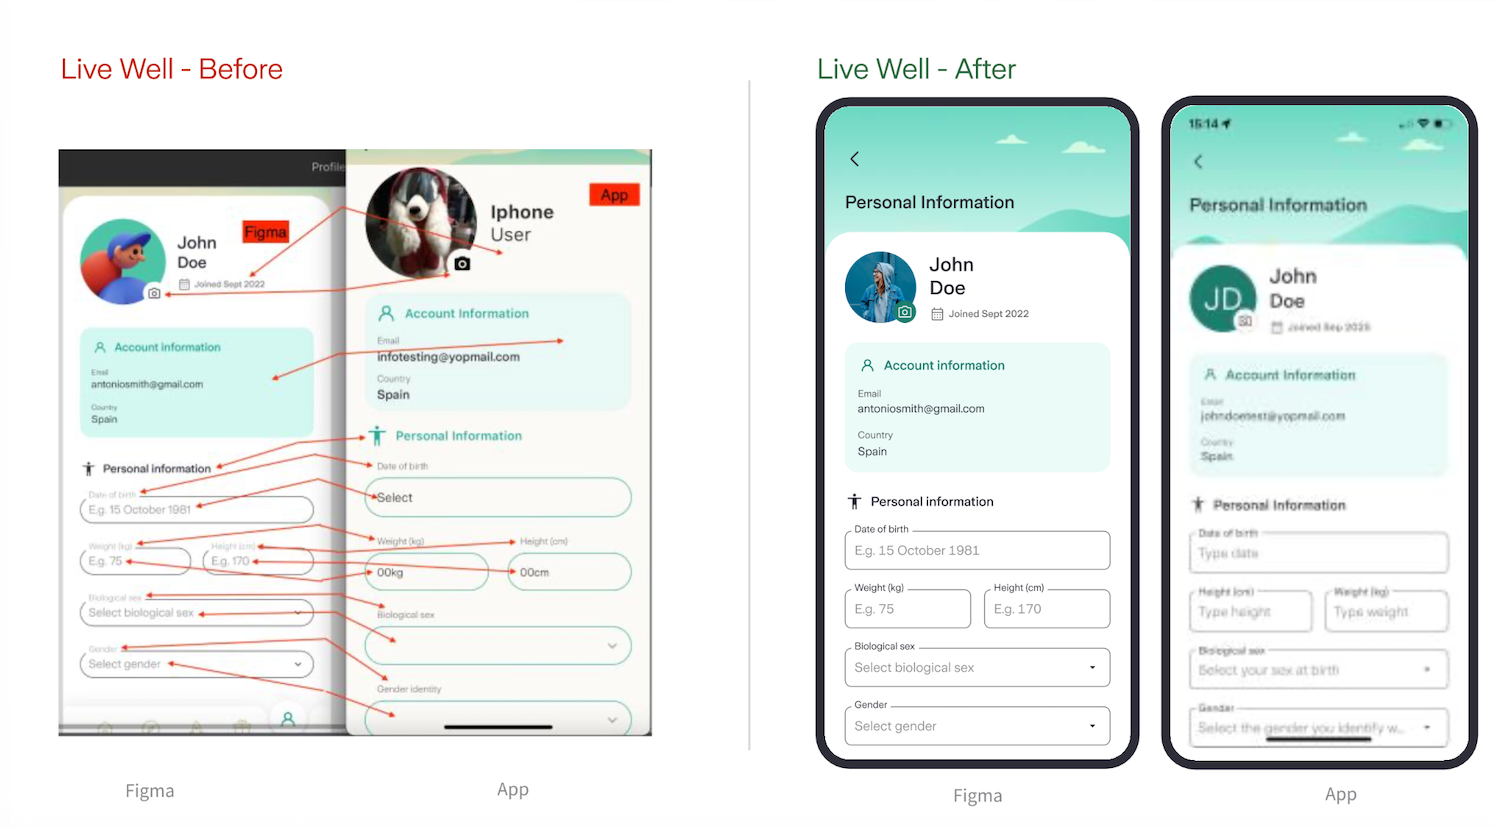
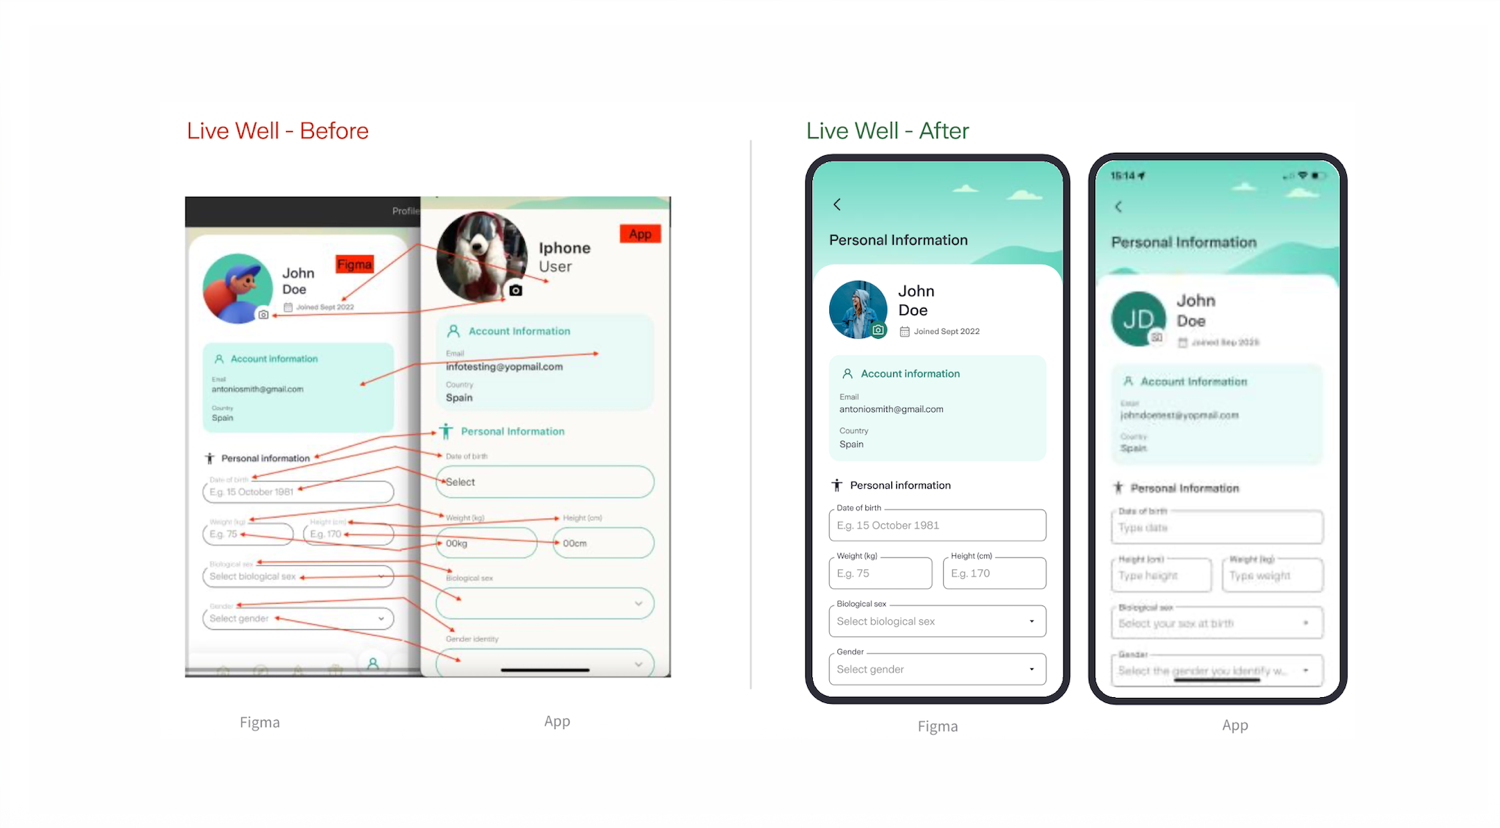
update text and images

diff --git a/index-1.html b/index-1.html
@@ -3,8 +3,8 @@
 <head>
   <meta charset="utf-8" />
   <meta name="viewport" content="width=device-width, initial-scale=1" />
-  <meta name="description" content="Ann-Sofi Lantz, Senior Flutter Engineer specialising in Flutter and Design Systems." />
-  <title>Ann-Sofi Lantz | Senior Flutter Engineer · Design Systems</title>
+  <meta name="description" content="Ann-Sofi Lantz — Senior Flutter Developer focused on Flutter and Design Systems." />
+  <title>Ann-Sofi Lantz | Flutter Developer · Design Systems</title>
   <link rel="preconnect" href="https://fonts.googleapis.com">
   <link rel="preconnect" href="https://fonts.gstatic.com" crossorigin>
   <link href="https://fonts.googleapis.com/css2?family=DM+Sans:wght@400;500;600&family=Manrope:wght@400;500;600&display=swap" rel="stylesheet">
@@ -23,20 +23,20 @@
 
   <main id="top">
     <section class="hero section-shell">
-      <p class="eyebrow reveal">Senior Flutter Engineer · Design Systems</p>
+      <p class="eyebrow reveal">Senior Flutter Developer · Design Systems</p>
       <h1 class="display reveal">I build digital products where <span>design and engineering</span> meet.</h1>
       <div class="hero-bottom reveal">
-        <p class="hero-copy">I’m a Flutter developer focused on building products and Design Systems that are easy to maintain, reuse and evolve. I enjoy working closely with designers to turn Figma designs into accessible components and real product experiences.</p>
+        <p class="hero-copy">I’m a Flutter developer focused on building products and Design Systems that are easy to scale, maintain and use. I enjoy working closely with designers to turn Figma designs into accessible, reusable components and real product experiences.</p>
         <div class="hero-meta">
           <span>Barcelona, Spain</span>
           <span>Flutter · Dart · Design Systems</span>
-          <span>Mobile · Web · Desktop</span>
+          <span>Mobile · Web</span>
         </div>
       </div>
     </section>
 
-    <section class="hero-gallery" aria-label="Selected product work">
-      <figure class="hero-shot hero-shot-a"><img src="assets/livewell-2.jpeg" alt="LiveWell app shown on two phones" /></figure>
+    <section class="section-shell hero-gallery" aria-label="Selected product work">
+      <figure class="hero-shot hero-shot-a"><img src="assets/livewell-2.jpeg" alt="LiveWell product shown on two phones" /></figure>
       <figure class="hero-shot hero-shot-b"><img src="assets/foundations.jpeg" alt="Koa Foundations app in use on a phone" /></figure>
       <figure class="hero-shot hero-shot-c"><img src="assets/habits-1.png" alt="Koa Habits app daily overview" /></figure>
     </section>
@@ -76,21 +76,21 @@
       <div class="ds-intro">
         <p class="eyebrow">Specialist area</p>
         <h2>Design Systems</h2>
-        <p class="ds-lede">A recurring focus throughout my work has been turning design decisions into scalable, reusable frontend systems. I have led frontend Design System development, built Flutter component libraries and reference applications, and worked closely with designers in Figma to keep design and code aligned.</p>
+        <p class="ds-lede">A recurring part of my work has been turning design decisions into reusable systems. I’ve built and maintained Flutter component libraries, worked closely with designers in Figma and helped keep design and code aligned as products evolve.</p>
       </div>
 
       <div class="ds-pillars">
-        <div class="ds-pillar"><span>01</span><h3>Design + code as one system</h3><p>I work closely with designers from the component definition stage, translating Figma specifications into reusable Flutter APIs. Naming, component structure and tokens are intentionally aligned across Figma and code so designers and developers share the same language.</p></div>
-        <div class="ds-pillar"><span>02</span><h3>Reusable Flutter libraries</h3><p>I have led frontend development of Design System libraries covering foundations, themes and reusable components across multiple applications. I focus on composition, predictable behaviour and APIs that are clear for product developers to understand and use correctly.</p></div>
-        <div class="ds-pillar"><span>03</span><h3>Reference app + documentation</h3><p>The library is supported by a reference application where teams can explore components, variants and states in one place. I document components and APIs carefully so the system is useful beyond the team that originally built it.</p></div>
-        <div class="ds-pillar"><span>04</span><h3>Quality built into the system</h3><p>I implemented golden testing around component demos to automatically detect visual regressions. Accessibility, interaction states, dark mode and cross-platform behaviour are treated as part of the component contract rather than product-by-product fixes.</p></div>
+        <div class="ds-pillar"><span>01</span><h3>Design + code as one system</h3><p>I work closely with designers from the start, turning Figma components and specifications into reusable Flutter components. I care about keeping naming, structure and behaviour consistent between design and code.</p></div>
+        <div class="ds-pillar"><span>02</span><h3>Reusable Flutter libraries</h3><p>I’ve built and maintained Flutter Design System libraries covering foundations, themes and reusable components. The goal is to make components easy for product developers to understand, reuse and extend.</p></div>
+        <div class="ds-pillar"><span>03</span><h3>Reference app + documentation</h3><p>I use example and reference apps to make components easy to explore in their different states and variants. Clear documentation helps product teams use the system without having to know how it was built.</p></div>
+        <div class="ds-pillar"><span>04</span><h3>Accessibility + quality</h3><p>Accessibility is considered when components are designed and implemented, not added as a separate step later. I’ve also used golden tests to catch visual regressions and treated states, theming and platform behaviour as part of the component itself.</p></div>
       </div>
 
       <div class="ds-demo">
         <div class="ds-demo-copy">
           <p class="section-number">How I work</p>
           <h3>From Figma specification to tested component.</h3>
-          <p>Design tokens bridge visual decisions and implementation, including colour, typography, spacing, sizing and radius. Components are then built once, documented, demonstrated in the reference app and protected with automated visual tests before adoption in products.</p>
+          <p>Design tokens connect visual decisions to implementation. Components are then built, documented and demonstrated in the reference app, with automated visual tests helping catch regressions before changes reach products.</p>
           <div class="ds-flow" aria-label="Design System workflow"><span>Figma</span><b>→</b><span>Tokens</span><b>→</b><span>Flutter API</span><b>→</b><span>Reference app</span><b>→</b><span>Golden tests</span></div>
         </div>
         <div class="ds-demo-media">
@@ -118,17 +118,17 @@
         <div class="case-title-wrap">
           <p class="eyebrow">Case study 01</p>
           <h2>LiveWell by Zurich</h2>
-          <p class="case-lede">Building a Design System from the ground up while contributing to a large health and wellbeing product.</p>
+          <p class="case-lede">Building a Design System from the ground up while contributing to a health and wellbeing product.</p>
         </div>
         <div class="case-facts">
           <div><span>Role</span><strong>Senior Flutter Developer</strong></div>
-          <div><span>Focus</span><strong>Design System, product development</strong></div>
-          <div><span>Technology</span><strong>Flutter, Dart, Riverpod</strong></div>
-          <div><span>Platform</span><strong>Android, iOS & web</strong></div>
+          <div><span>Focus</span><strong>Design Systems, product development</strong></div>
+          <div><span>Platform</span><strong>Flutter, mobile and web</strong></div>
         </div>
       </section>
+   <section class="full-bleed media-panel blue-panel"><img src="assets/livewell-2.jpeg" alt="LiveWell visual identity shown across two phone mockups" /></section>
 
-      <section class="full-bleed media-panel blue-panel"><img src="assets/livewell-2.jpeg" alt="LiveWell visual identity shown across two phone mockups" /></section>
+      <section class="full-bleed media-panel livewell-hero-media"><img src="assets/livewell-before-after.png" alt="LiveWell app screens showing the product before and after the Design System work" /></section>
 
       <section class="case-grid section-shell">
         <aside class="case-nav" aria-label="LiveWell case study sections">
@@ -141,26 +141,24 @@
           <section id="livewell-context" class="case-section">
             <span class="section-number">01</span>
             <h3>Creating a shared foundation</h3>
-            <p>I built and evolved the LiveWell Design System from the ground up, working closely with design and product teams to establish a consistent visual and technical foundation. The work combined system thinking with hands-on product development, so the Design System had to work in real product flows rather than as an isolated component library.</p>
+            <p>I built and evolved the LiveWell Design System from the ground up, working closely with design and product to establish a shared visual and technical foundation. The system had to work in real product flows, not just as an isolated component library.</p>
           </section>
 
           <section id="livewell-role" class="case-section">
             <span class="section-number">02</span>
-            <h3>From foundations to product adoption</h3>
+            <h3>From foundations to product</h3>
             <div class="feature-list">
               <div><span>Foundations</span><p>Defined color, typography, spacing, sizing, radius, icons and dark mode as reusable foundations.</p></div>
               <div><span>Components</span><p>Built reusable Flutter components and tokens with well-structured APIs, clear conventions and maintainability in mind.</p></div>
               <div><span>Accessibility</span><p>Incorporated accessibility into components and design standards instead of treating it as a later layer.</p></div>
               <div><span>Adoption</span><p>Worked with product teams to replace legacy components and gradually move the app towards the new system.</p></div>
-              <div><span>Product work</span><p>Contributed directly to features while solving UX issues, technical debt and cross-squad implementation challenges.</p></div>
+              <div><span>Product work</span><p>Contributed directly to product features, including health and activity tracking, while also working through UX issues and technical debt.</p></div>
             </div>
           </section>
         </div>
       </section>
 
-      <section class="full-bleed media-panel blue-panel"><img src="assets/livewell-before-after-s.png" alt="LiveWell app screens showing the product before and after the Design System work" /></section>
-
- 
+    
 
       <section id="livewell-system" class="editorial-break section-shell">
         <div class="big-quote">Design System = design + code</div>
@@ -170,7 +168,19 @@
         </div>
       </section>
 
-                <section id="livewell-system" class="editorial-break section-shell">
+      <section class="livewell-product section-shell" aria-labelledby="livewell-product-title">
+        
+   
+      
+      </section>
+    <section class="livewell-ds-video section-shell" aria-label="LiveWell Design System demo">
+  
+        <video autoplay muted loop playsinline controls poster="assets/livewell-before-after.png">
+          <source src="assets/livewell-ds.mp4" type="video/mp4" />
+          <source src="assets/livewell-ds.mov" type="video/quicktime" />
+        </video>
+      </section>
+          <section id="livewell-system" class="editorial-break section-shell">
         <div class="big-quote">Product work</div>
         <div class="two-col-copy">
           <h3>From shared components to a working product experience.</h3>
@@ -180,16 +190,8 @@
         </div>
       </section>
 
-
-      <section class="livewell-ds-video section-shell" aria-label="LiveWell Design System demo">
-     
-        <video autoplay muted loop playsinline controls poster="assets/livewell-before-after.png">
-          <source src="assets/livewell-ds.mp4" type="video/mp4" />
-          <source src="assets/livewell-ds.mov" type="video/quicktime" />
-        </video>
-      </section>
-
-      <section id="livewell-outcome" class="case-outcome section-shell">
+  
+        <section id="livewell-outcome" class="case-outcome section-shell">
         <p class="eyebrow">04 · Outcome</p>
         <h3>A more consistent, accessible and scalable product experience.</h3>
         <p>The Design System made it easier for teams to build and maintain new features while moving the product toward higher reuse and consistency. The next step was to think beyond a single application and explore how the same foundations could support a wider ecosystem.</p>
@@ -217,8 +219,8 @@
           <h3>From product to ecosystem</h3>
         </div>
         <div>
-          <p>After LiveWell, I worked on the next step of the Design System approach within Zurich Global Ventures. The goal was to create a shared foundation that could be reused across multiple apps while still allowing each product to maintain its own identity.</p>
-          <p>The challenge shifted from creating consistency within one product to exploring how a Design System could support multiple products, teams and visual identities without losing the benefits of reuse.</p>
+          <p>After LiveWell, I worked on the next step of the Design System approach within Zurich Global Ventures. The goal was to create a shared foundation that could be reused across multiple apps while still allowing each product to keep its own identity.</p>
+          <p>The focus shifted from consistency within one app to exploring how a shared system could support multiple products and teams without flattening their individual identities.</p>
         </div>
       </section>
 
@@ -245,12 +247,11 @@
         <div class="case-title-wrap">
           <p class="eyebrow">Case study 03</p>
           <h2>Koa Health</h2>
-          <p class="case-lede">A Design System used across several digital health products.</p>
+          <p class="case-lede">One Design System supporting multiple digital health products, teams and clinical contexts.</p>
         </div>
         <div class="case-facts">
-          <div><span>Role</span><strong>Flutter Developer · Design System</strong></div>
+          <div><span>Role</span><strong>Flutter Developer · Design Systems</strong></div>
           <div><span>Products</span><strong>Foundations, Mindset, Habits</strong></div>
-          <div><span>Technology</span><strong>Flutter, Dart, Provider, Riverpod</strong></div>
           <div><span>Context</span><strong>Digital mental health</strong></div>
         </div>
       </section>
@@ -263,8 +264,8 @@
       <section class="split-story section-shell">
         <div><p class="section-number">01</p><h3>One system, different products</h3></div>
         <div>
-          <p>At Koa Health, I worked with a Design System supporting a growing portfolio of digital health products, each with different audiences, purposes and clinical contexts.</p>
-          <p>The challenge was not simply creating consistency within one product. It was building a flexible and accessible foundation that could scale across multiple products while maintaining a coherent Koa Health experience.</p>
+          <p>At Koa Health, I worked primarily on the Design System used across their digital health products. I also contributed to several products, including Foundations, Mindset and the research app Habits.</p>
+          <p>The challenge was not simply creating consistency within one product. It was building a flexible and accessible foundation that could scale across multiple products while maintaining a coherent Koa Health experience. Accessibility and flexibility were important parts of that work.</p>
         </div>
       </section>
 
@@ -296,7 +297,7 @@
       <section class="principles section-shell koa-principles">
         <div class="principle"><span>01</span><h4>Accessibility</h4><p>Make experiences usable and inclusive for people with different needs and abilities.</p></div>
         <div class="principle"><span>02</span><h4>Consistency</h4><p>Create a recognisable experience across products without blocking product-specific needs.</p></div>
-        <div class="principle"><span>03</span><h4>Flexibility</h4><p>Support different product needs and user journeys.</p></div>
+        <div class="principle"><span>03</span><h4>Flexibility</h4><p>Support very different product needs, user journeys and clinical contexts.</p></div>
         <div class="principle"><span>04</span><h4>Scalability</h4><p>Allow new products and features to build on the same reliable foundation.</p></div>
       </section>
 
@@ -313,7 +314,7 @@
         <div class="case-facts">
           <div><span>Role</span><strong>JavaScript / Flutter Developer</strong></div>
           <div><span>Product</span><strong>Foodini 3D food printer</strong></div>
-          <div><span>Technology</span><strong>React, JavaScript, Flutter, Dart, Provider</strong></div>
+          <div><span>Technology</span><strong>React, JavaScript, Flutter</strong></div>
         </div>
       </section>
 
@@ -342,12 +343,12 @@
     <section id="about" class="about section-shell">
       <div class="about-heading">
         <p class="eyebrow">About</p>
-        <h2>Flutter developer with a strong Design Systems focus.</h2>
+        <h2>Flutter developer with a strong focus on product quality and Design System focus.</h2>
       </div>
       <div class="about-copy">
-        <p>Flutter has been my main technology for the past six years. My specialty sits at the intersection of design and engineering, translating design decisions into maintainable code through reusable component APIs, clear documentation and close collaboration with designers.</p>
-        <p>I care deeply about maintainability and quality. My experience includes application architecture, Riverpod, CI workflows, automated testing including golden tests, release processes and hands-on product development across mobile and web applications.</p>
-        <p>I am based in Barcelona and experienced in remote, distributed and async-friendly environments.</p>
+        <p>Over the past six years, I have worked exclusively with Flutter. My specialty sits at the intersection of design and engineering, translating design decisions into scalable code through reusable component APIs, clear documentation and close collaboration with designers.</p>
+        <p>My experience also includes application architecture, Riverpod, CI workflows, automated testing including golden tests, release processes and hands-on development across mobile and web.</p>
+        <p>I’m based in Barcelona and well experienced in remote, distributed and async-friendly environments.</p>
       </div>
     </section>
 
@@ -359,8 +360,6 @@
       <div class="experience-row"><span>2019 - 2020</span><strong>JavaScript / Flutter Developer</strong><em>Natural Machines</em></div>
       <div class="experience-row"><span>Earlier</span><strong>Full-stack development, founder, design</strong><em>Spain and Sweden</em></div>
     </section>
-
-    
 
     <section class="earlier-work section-shell">
       <div class="earlier-work-heading">
@@ -384,24 +383,9 @@
       </div>
     </section>
 
-    <section id="recommendations" class="recommendations section-shell">
-      <div class="recommendations-heading">
-        <p class="eyebrow">Recommendations</p>
-        <h2>What colleagues say.</h2>
-      </div>
-      <div class="recommendation-card">
-        <div class="quote-mark">“</div>
-        <blockquote>Her work has significantly reduced build time for the team while improving consistency and reliability across the product.</blockquote>
-   
-        <a class="recommendation-link" href="https://www.linkedin.com/in/ann-sofi-lantz/details/recommendations/" target="_blank" rel="noreferrer">View recommendations on LinkedIn ↗</a>
-      </div>
-    </section>
-
-    
-
     <section class="contact section-shell">
       <p class="eyebrow">Get in touch</p>
-      <h2>Interested in building a thoughtful product together?</h2>
+      <h2>Looking for a frontend developer?</h2>
       <div class="contact-actions">
         <a href="https://linkedin.com/in/ann-sofi-lantz" target="_blank" rel="noreferrer">LinkedIn ↗</a>
         <a href="https://github.com/ansolantz" target="_blank" rel="noreferrer">GitHub ↗</a>
@@ -409,7 +393,7 @@
     </section>
   </main>
 
-  <footer class="site-footer section-shell"><span>Ann-Sofi Lantz</span><span>Senior Flutter Engineer · Barcelona</span><a href="#top">Back to top ↑</a></footer>
+  <footer class="site-footer section-shell"><span>Ann-Sofi Lantz</span><span>Flutter Developer · Design Systems · Barcelona</span><a href="#top">Back to top ↑</a></footer>
   <script src="script.js"></script>
 </body>
 </html>

diff --git a/styles.css b/styles.css
@@ -45,6 +45,10 @@ a { color: inherit; text-decoration: none; }
 .contact-link { padding-bottom: 2px; border-bottom: 1px solid currentColor; }
 
 .section-shell { max-width: var(--max); margin: 0 auto; padding-left: var(--pad); padding-right: var(--pad); }
+
+.section-shell h2 {  color: var(--accent); }
+
+   
 .hero { min-height: 78vh; display: flex; flex-direction: column; justify-content: space-between; padding-top: clamp(90px, 12vw, 165px); padding-bottom: 72px; }
 .eyebrow { margin: 0 0 24px; font-size: 12px; font-weight: 600; letter-spacing: .12em; text-transform: uppercase; }
 .display { max-width: 1050px; margin: 0; font: 500 clamp(44px, 6.1vw, 88px)/1.02 "Manrope", sans-serif; letter-spacing: -.055em; }
@@ -111,7 +115,7 @@ a { color: inherit; text-decoration: none; }
 .one-up img { aspect-ratio: auto; }
 
 .editorial-break { display: grid; grid-template-columns: 1.05fr .95fr; gap: 96px; padding-top: 130px; padding-bottom: 130px; border-top: 1px solid var(--line); }
-.big-quote { font: 500 clamp(48px, 6vw, 84px)/1.03 "Manrope", sans-serif; letter-spacing: -.05em; color: var(--accent); }
+.big-quote { font: 500 clamp(48px, 6vw, 72px)/1.03 "Manrope", sans-serif; letter-spacing: -.05em; color: var(--accent); }
 .two-col-copy h3 { margin: 0 0 24px; font: 500 32px/1.2 "Manrope", sans-serif; letter-spacing: -.03em; }
 .two-col-copy p { margin: 0; font-size: 18px; line-height: 1.65; color: #514f4a; }
 
@@ -162,7 +166,7 @@ a { color: inherit; text-decoration: none; }
 .experience-row strong { font-weight: 500; }
 
 .contact { padding-top: 140px; padding-bottom: 140px; border-top: 1px solid var(--line); }
-.contact h2 { max-width: 980px; font-size: 38px;}
+.contact h2 { max-width: 980px; font-size: 44px;}
 .contact-actions { display: flex; flex-wrap: wrap; gap: 28px 42px; margin-top: 58px; }
 .contact-actions a { padding-bottom: 3px; border-bottom: 1px solid currentColor; }
 .site-footer { display: grid; grid-template-columns: 1fr 1fr auto; gap: 20px; padding-top: 30px; padding-bottom: 30px; border-top: 1px solid var(--line); font-size: 12px; color: var(--muted); }
@@ -422,3 +426,17 @@ html, body { max-width: 100%; overflow-x: hidden; }
   .livewell-ds-video { padding-bottom: 60px; }
   .koa-collage-single .koa-main img { max-height: none; }
 }
+
+/* Recommendations */
+.recommendations{padding-top:120px;padding-bottom:120px;border-top:1px solid var(--line)}
+.recommendations-heading{display:grid;grid-template-columns:.75fr 1.25fr;gap:70px;margin-bottom:58px}
+.recommendations-heading h2{margin:0;font:500 clamp(42px,5.4vw,76px)/1 "Manrope",sans-serif;letter-spacing:-.055em}
+.recommendation-card{max-width:980px;margin-left:auto;padding:38px 0 0;border-top:1px solid var(--line)}
+.quote-mark{font:500 82px/.7 Georgia,serif;color:var(--accent);margin-bottom:26px}
+.recommendation-card blockquote{margin:0;max-width:900px;font:500 clamp(28px,3.4vw,48px)/1.22 "Manrope",sans-serif;letter-spacing:-.035em; color:#3f3e3b; font-style: italic;}
+.recommendation-note{max-width:700px;margin:28px 0 0;color:var(--muted);font-size:13px;line-height:1.55}
+.recommendation-link{display:inline-block;margin-top:24px;padding-bottom:3px;border-bottom:1px solid currentColor;font-size:13px}
+@media(max-width:900px){.recommendations-heading{grid-template-columns:1fr;gap:20px}}
+@media(max-width:600px){.recommendations{padding-top:90px;padding-bottom:90px}.recommendation-card{padding-top:35px}.quote-mark{font-size:68px}}
+
+
